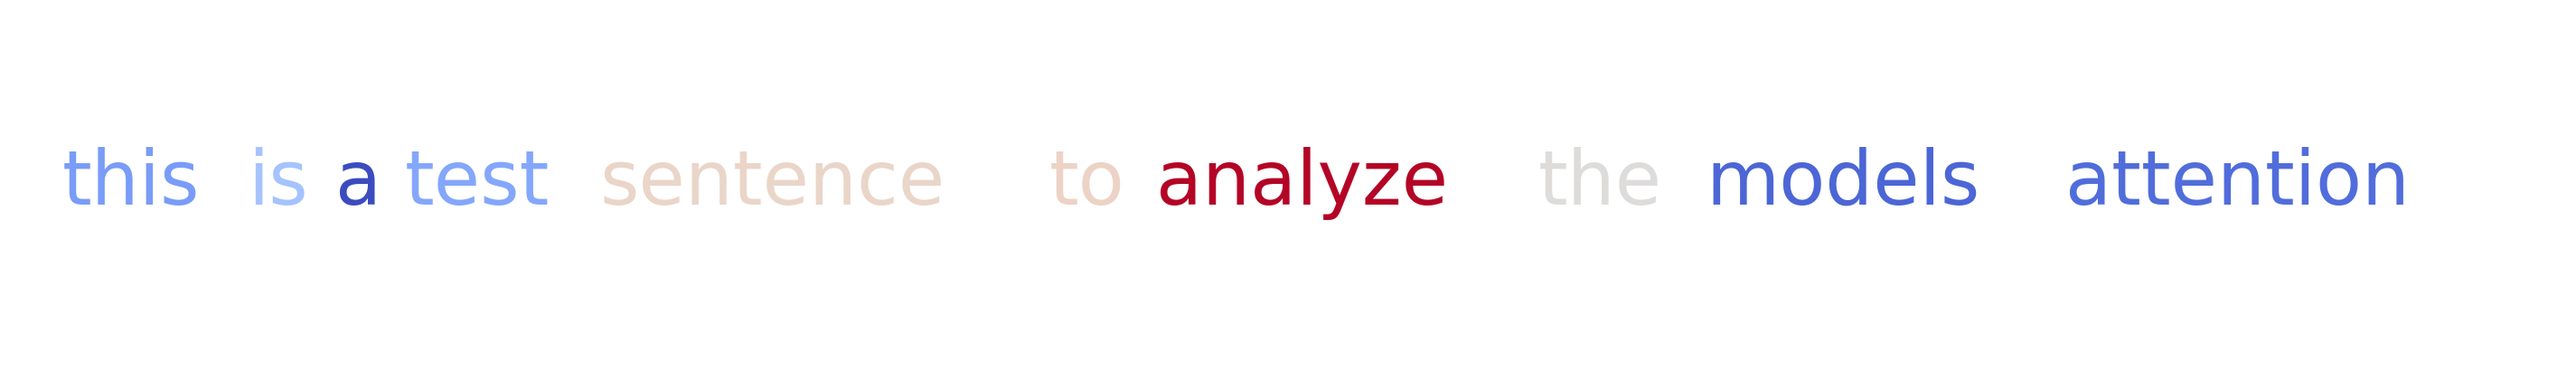
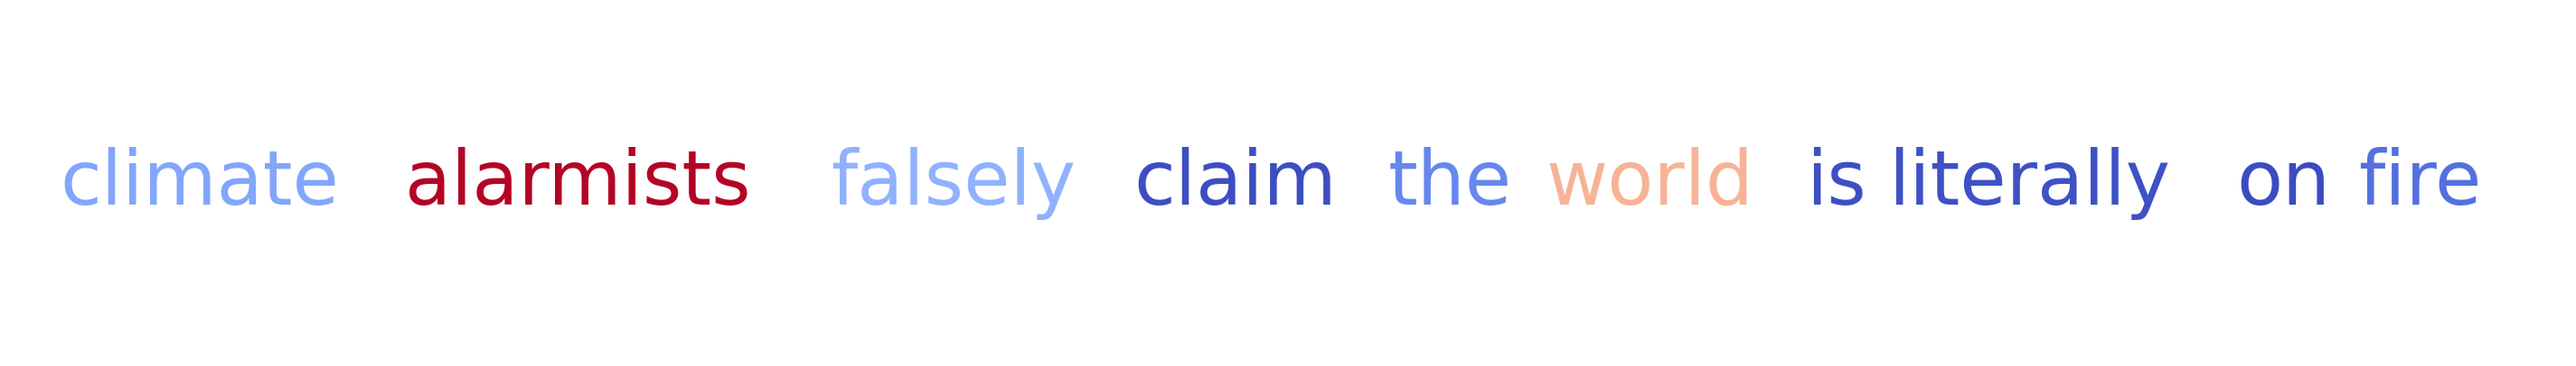
actual display sentence

Changed region(s): [[0.0, 0.3842, 0.9681, 0.5911]]

diff --git a/src/eval/display_sentence.py b/src/eval/display_sentence.py
@@ -40,16 +40,16 @@ def save_highlighted_words(word_dict, filename="highlighted_words.png"):
     plt.close()
 
 word_frequencies = {
-    "this": 0.0453,
-    "is": 0.0683,
-    "a": 0.0093,
-    "test": 0.0508,
-    "sentence": 0.1118,
-    "to": 0.1134,
-    "analyze": 0.1943,
-    "the": 0.1030,
-    "models": 0.0206,
-    "attention": 0.0234
+    "climate": 0.0525,
+    "alarmists": 0.1512 + 0.0594,
+    "falsely": 0.0610,
+    "claim": 0.0094,
+    "the": 0.0360,
+    "world": 0.1461,
+    "is": 0.0105,
+    "literally": 0.0107,
+    "on": 0.0082,
+    "fire": 0.0250,
 }
 
 save_highlighted_words(word_frequencies, "src/highlighted_words.png")

diff --git a/src/eval/eval.py b/src/eval/eval.py
@@ -29,7 +29,7 @@ print(f"Validation Samples: {len(texts)}")
 # word_importance = evaluator.analyze_word_importance(texts, label_mapping, 'src/word_importance_vanilla_4.csv')
 # accuracy = evaluator.evaluate_model(texts, true_labels, label_mapping, 'src/eval_results_vanilla_4.csv', 'src/confusion_matrix_vanilla_4.png')
 
-sample_sentence = "This is a test sentence to analyze the models attention"
+sample_sentence = "Climate alarmists falsely claim the world is literally on fire"
 target_label = list(label_mapping.keys())[0]  
 
 word_importance = evaluator.get_word_importance(sample_sentence, label_mapping, target_label)
